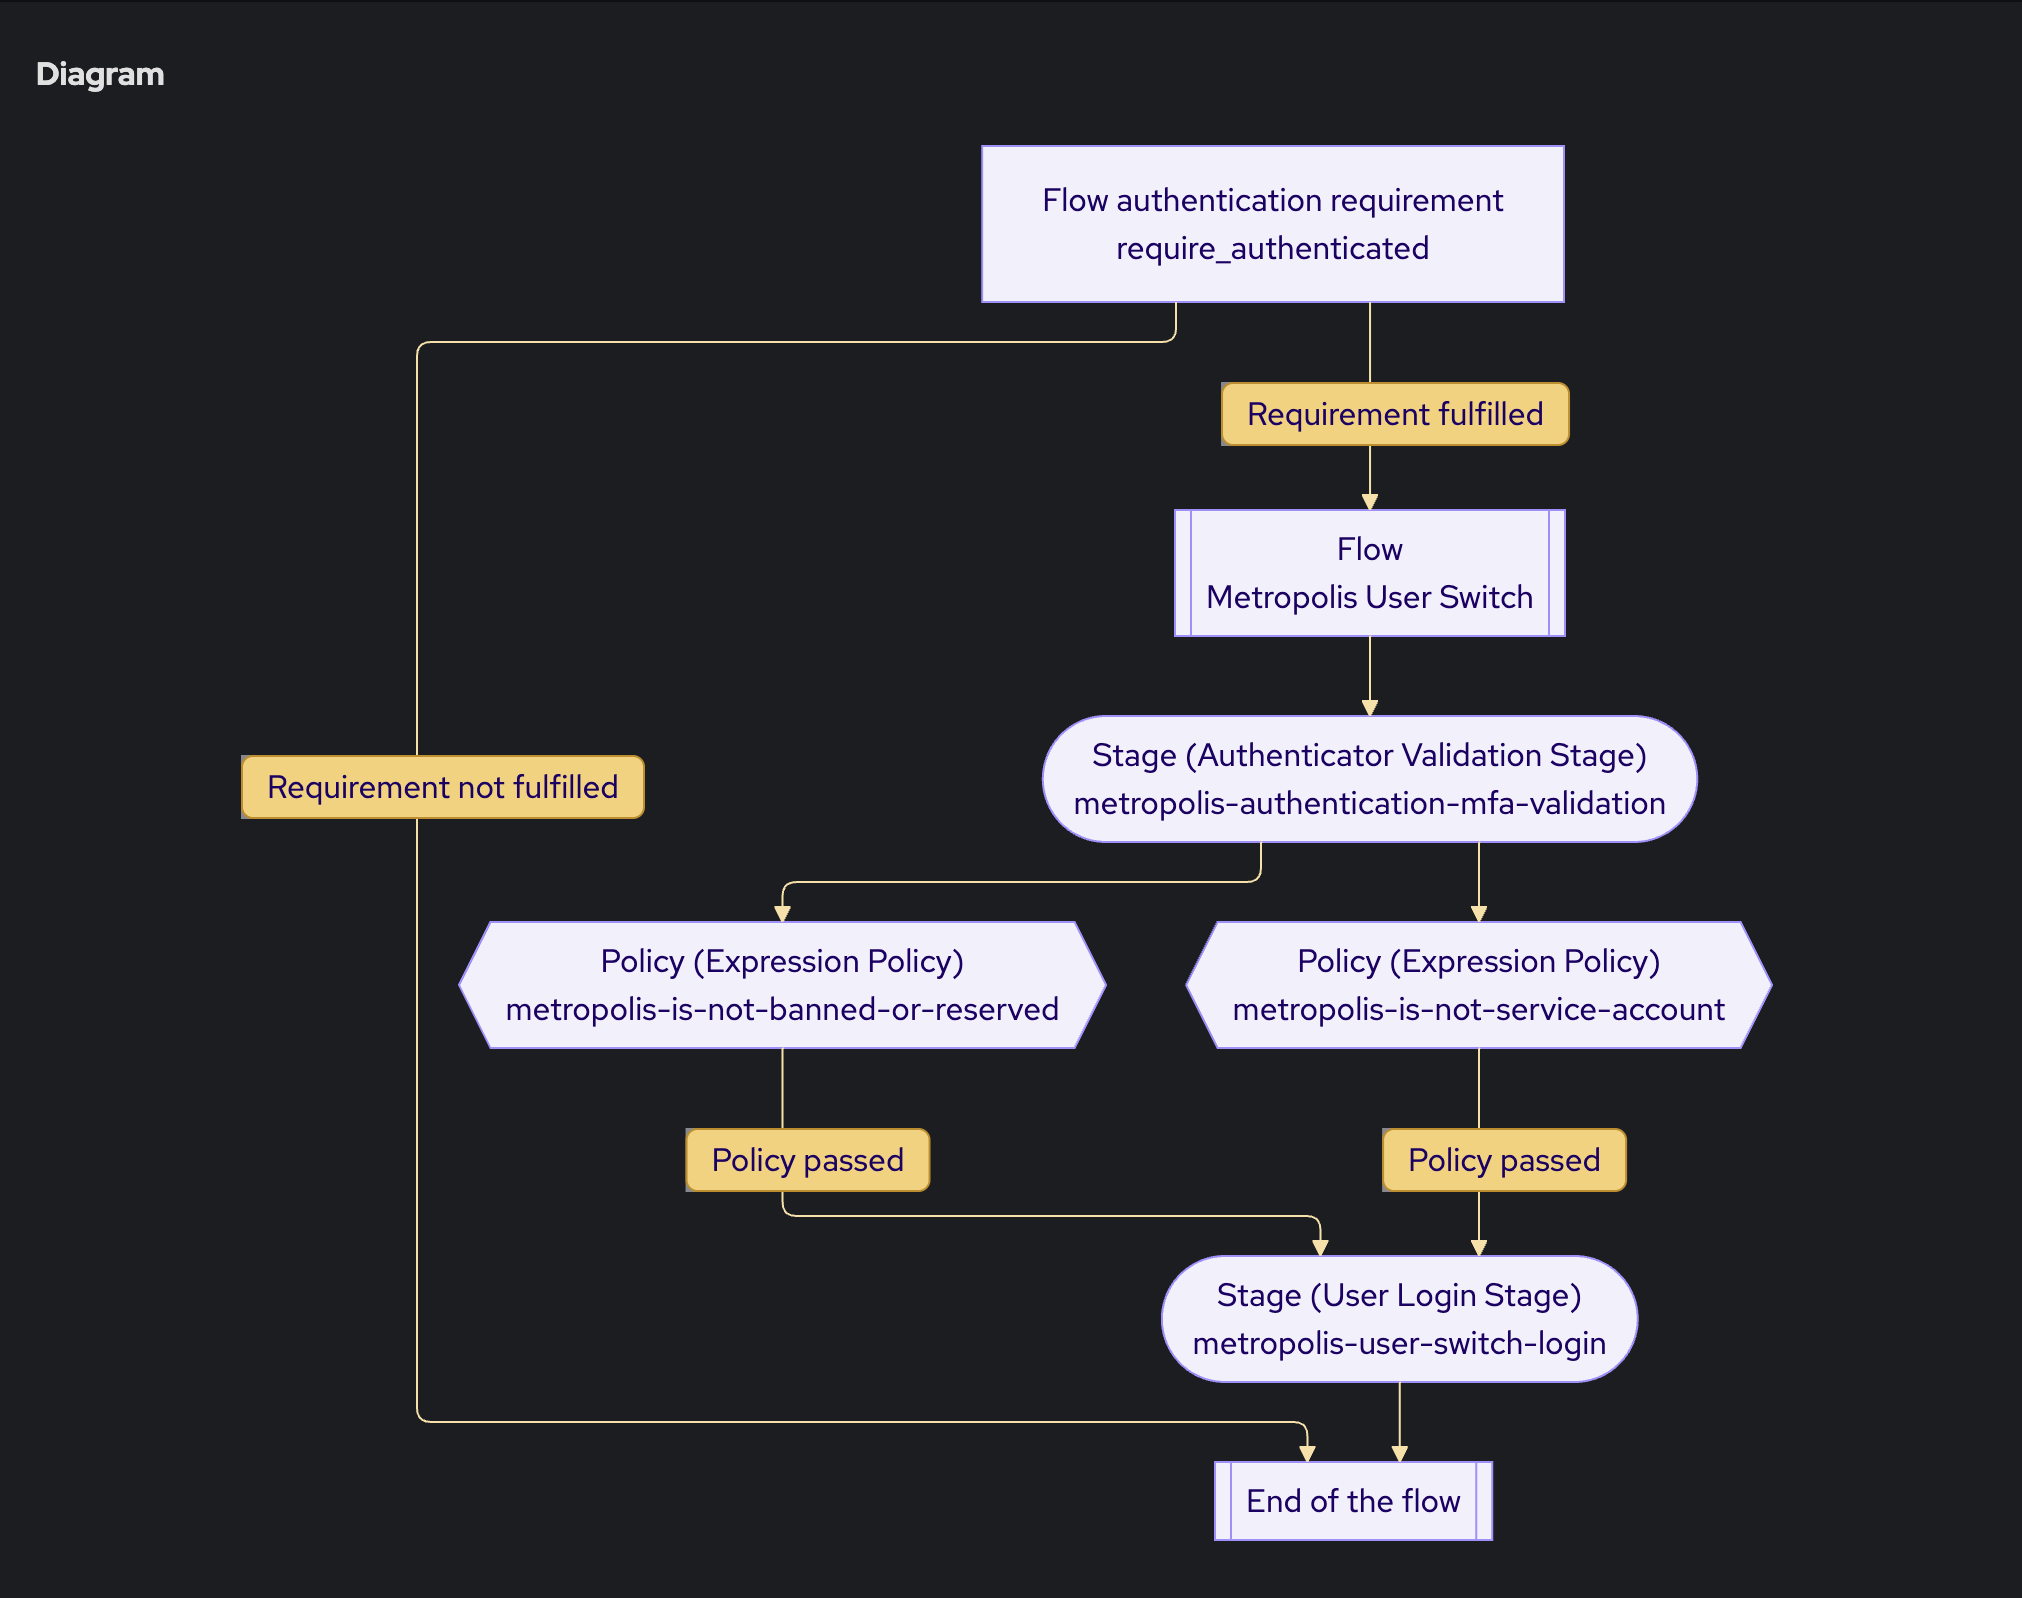
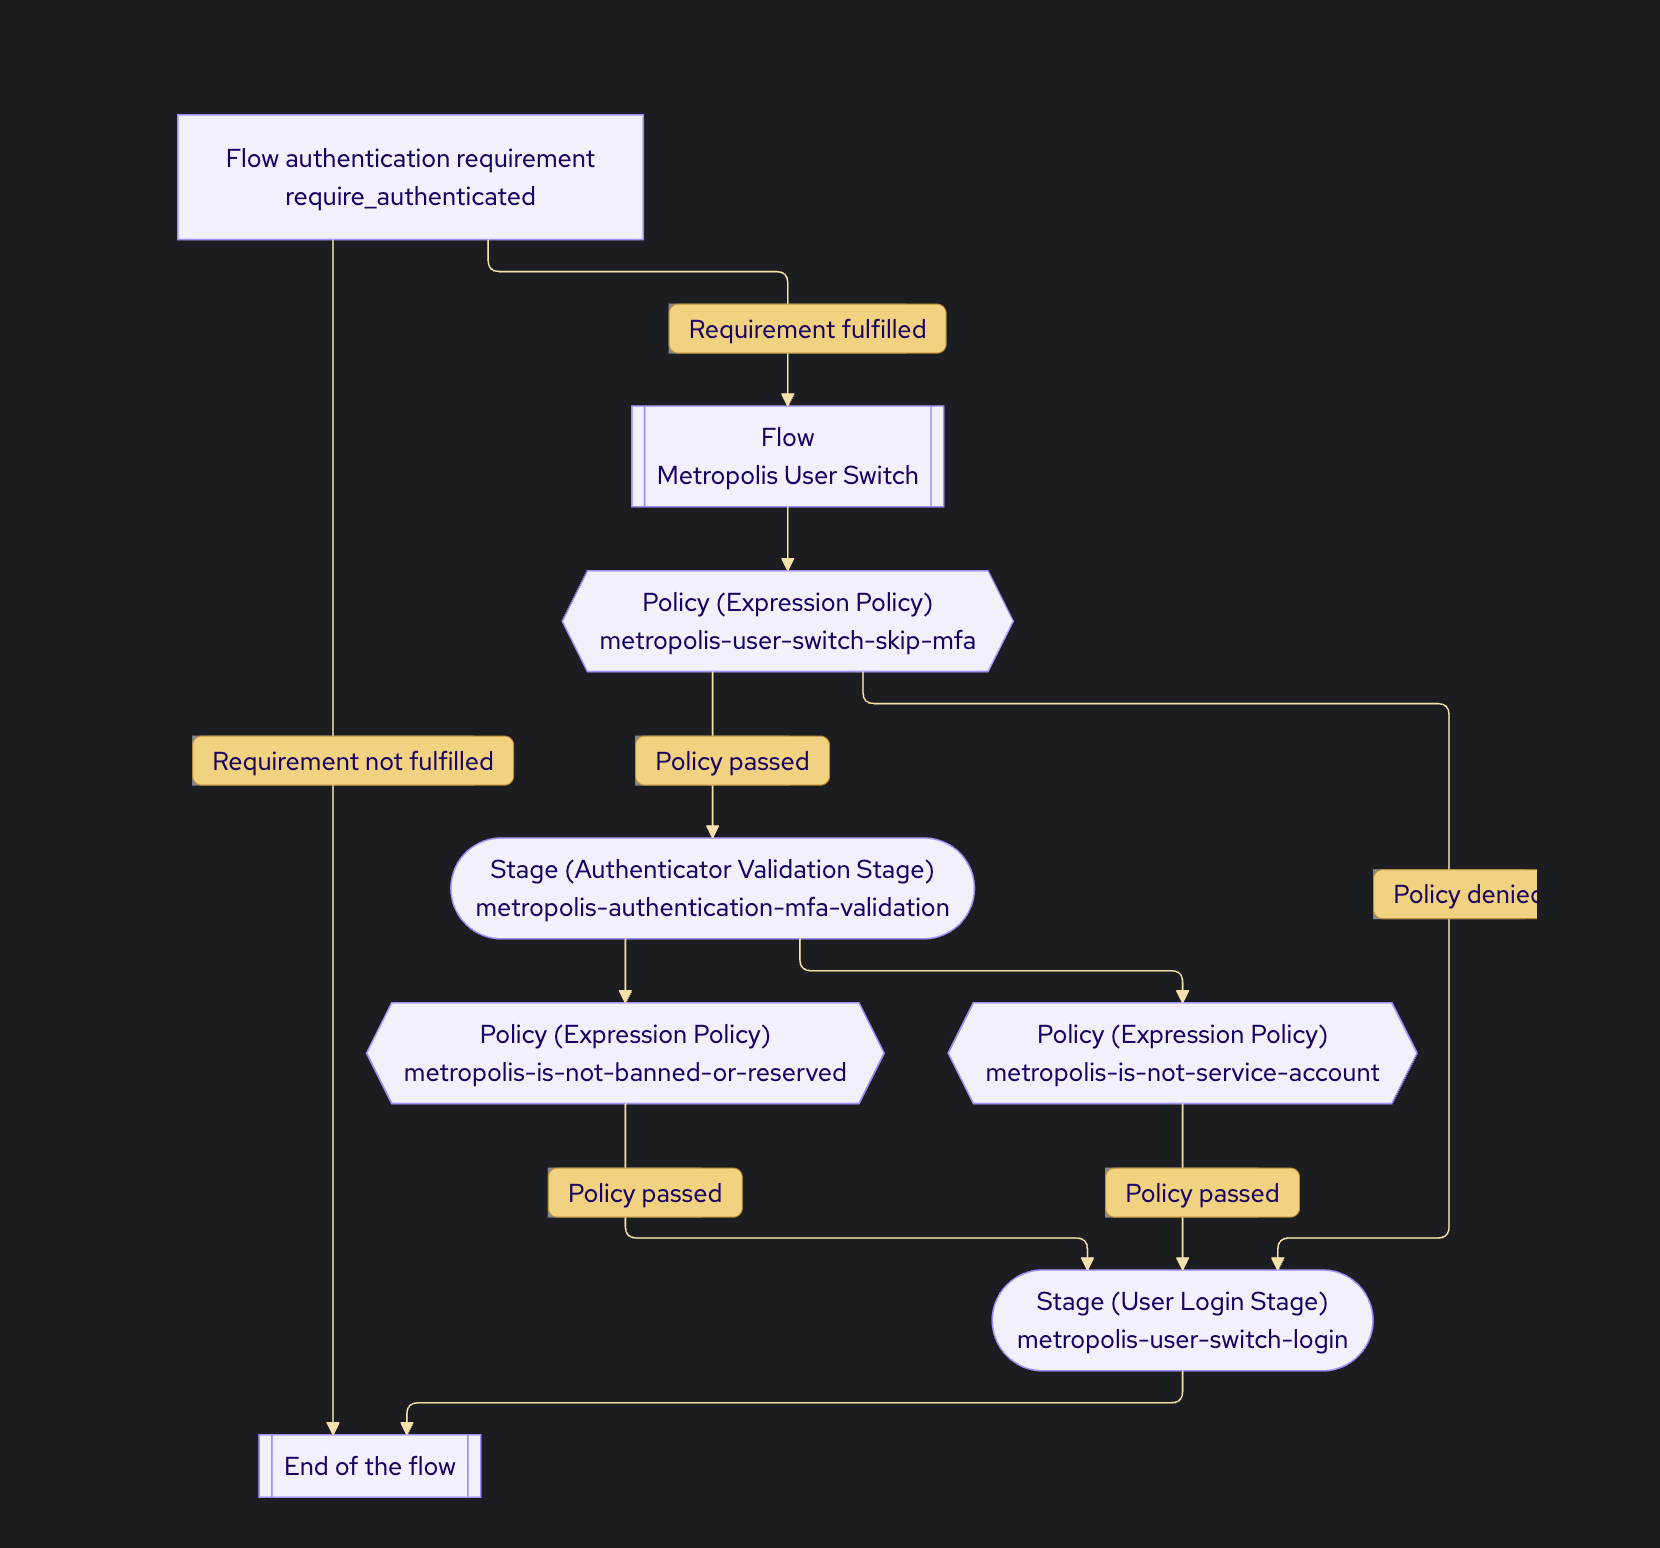
Reduce MFA prompts for user switching

diff --git a/policies/metropolis-user-switch-skip-mfa.py b/policies/metropolis-user-switch-skip-mfa.py
@@ -1,0 +1,5 @@
+from datetime import timedelta
+
+from authentik.core.user_switching import is_user_switch_target_recent
+
+return not is_user_switch_target_recent(request, timedelta(hours=72))
